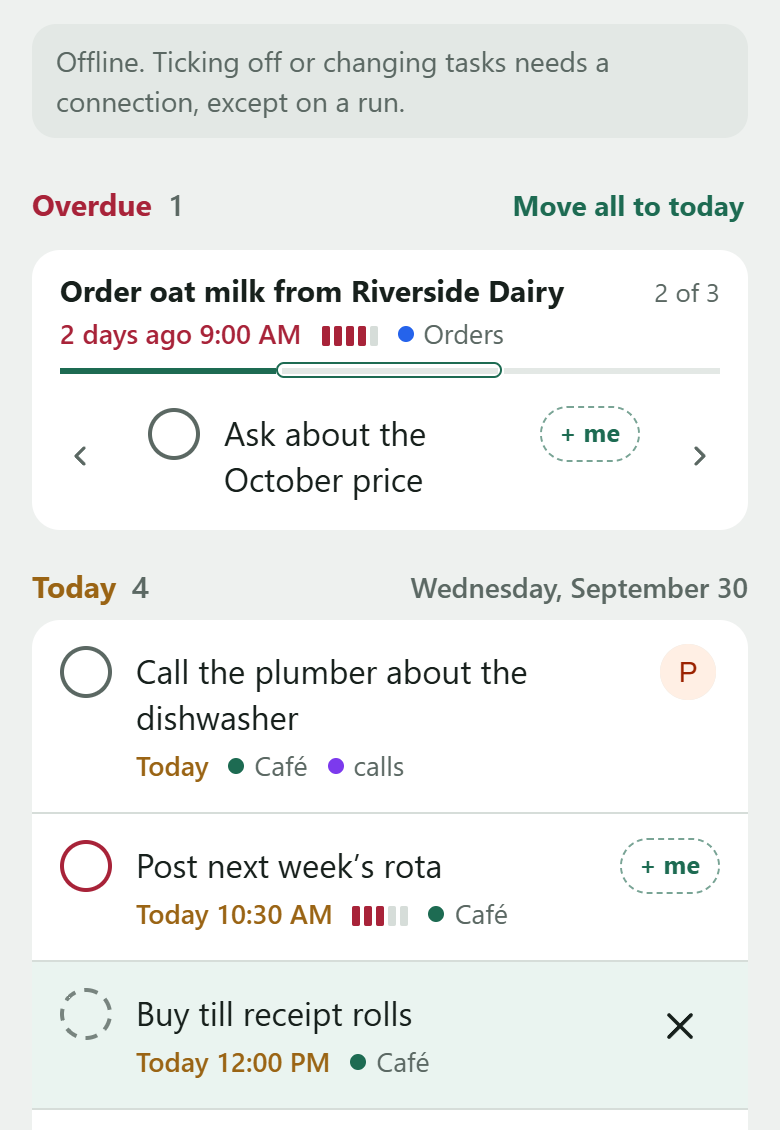
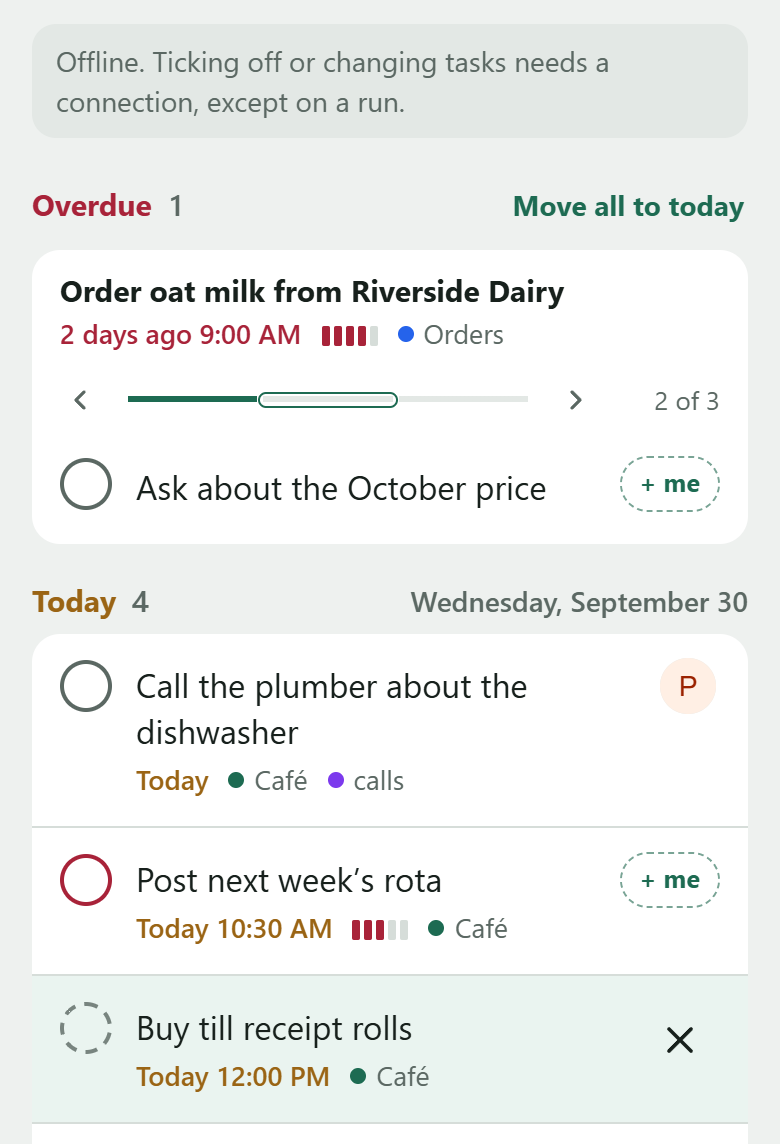
docs: the README's pictures made again for a card's strip under its title, and its step line as a plain row

diff --git a/README.md b/README.md
@@ -11,7 +11,7 @@ like opening up and closing down, into checklists that you and your team tick of
     <th>Checklists</th>
   </tr>
   <tr>
-    <td><img src="docs/screenshots/pocket-demo.gif" width="280" alt="Today, with 'Order oat milk from Riverside Dairy' overdue as a card showing its next step, 'Ask about the October price', 2 of 3; › pages it on to 'Set up the standing order', 3 of 3. Typing 'Order 6 bags of house blend at 4 +orders !3' highlights the words Pocket reads, chips show Orders, Today 4:00 PM and Priority 3, and the task appears under Today. Then a finger holds 'Post next week's rota' and slides it: its '+ me' turns into Alex's A as the slide starts, and it stops at 25% and then 50%. Last, 'Pick up change from the bank' is ticked: it stays where it is, ticked and struck through, and leaves 3 seconds later, the rows below closing up."></td>
+    <td><img src="docs/screenshots/pocket-demo.gif" width="280" alt="Today, with 'Order oat milk from Riverside Dairy' overdue as a card: under its title, a strip with ‹, a line in three segments, › and 2 of 3, then its next step, 'Ask about the October price'; › pages it on to 'Set up the standing order', 3 of 3, the outline on the line moving along. Typing 'Order 6 bags of house blend at 4 +orders !3' highlights the words Pocket reads, chips show Orders, Today 4:00 PM and Priority 3, and the task appears under Today. Then a finger holds 'Post next week's rota' and slides it: its '+ me' turns into Alex's A as the slide starts, and it stops at 25% and then 50%. Last, 'Pick up change from the bank' is ticked: it stays where it is, ticked and struck through, and leaves 3 seconds later, the rows below closing up."></td>
     <td><img src="docs/screenshots/pocket-checklist.gif" width="280" alt="Starting the café's Opening up checklist, which says it's started, with an Undo; its steps have square boxes, and its line has a segment for each step. Once the espresso machine is on and the croissants are in, two segments are filled, 'Dial in the grinder' is due in 20 minutes, and 'Take the croissants out', due in 18, is pinned at the top."></td>
   </tr>
 </table>
@@ -31,7 +31,7 @@ ones you ticked leave together a few seconds later; tick it again to take it bac
 say how far along it is. Today is for doing, so nothing is deleted or moved there: on a project's list, swipe a task
 left to delete it, and its place stays as a gap with **Restore** until the gap closes.
 
-<img src="docs/screenshots/pocket-today.png" width="300" alt="Pocket's Today: 'Order oat milk from Riverside Dairy' overdue, a card with its urgent priority's bars and a line in three segments under its title, then its next step, 'Ask about the October price', 2 of 3; 'Call the plumber about the dishwasher' (Priya's, her picture at its end), 'Post next week's rota' and 'Pick up change from the bank' due today, each other row with '+ me' at its end; and the café's week ahead">
+<img src="docs/screenshots/pocket-today.png" width="300" alt="Pocket's Today: 'Order oat milk from Riverside Dairy' overdue, a card with its urgent priority's bars under its title, then a strip with ‹, a line in three segments, › and 2 of 3, then its next step, 'Ask about the October price'; 'Call the plumber about the dishwasher' (Priya's, her picture at its end), 'Post next week's rota' and 'Pick up change from the bank' due today, each other row with '+ me' at its end; and the café's week ahead">
 
 ## Hand it off
 
